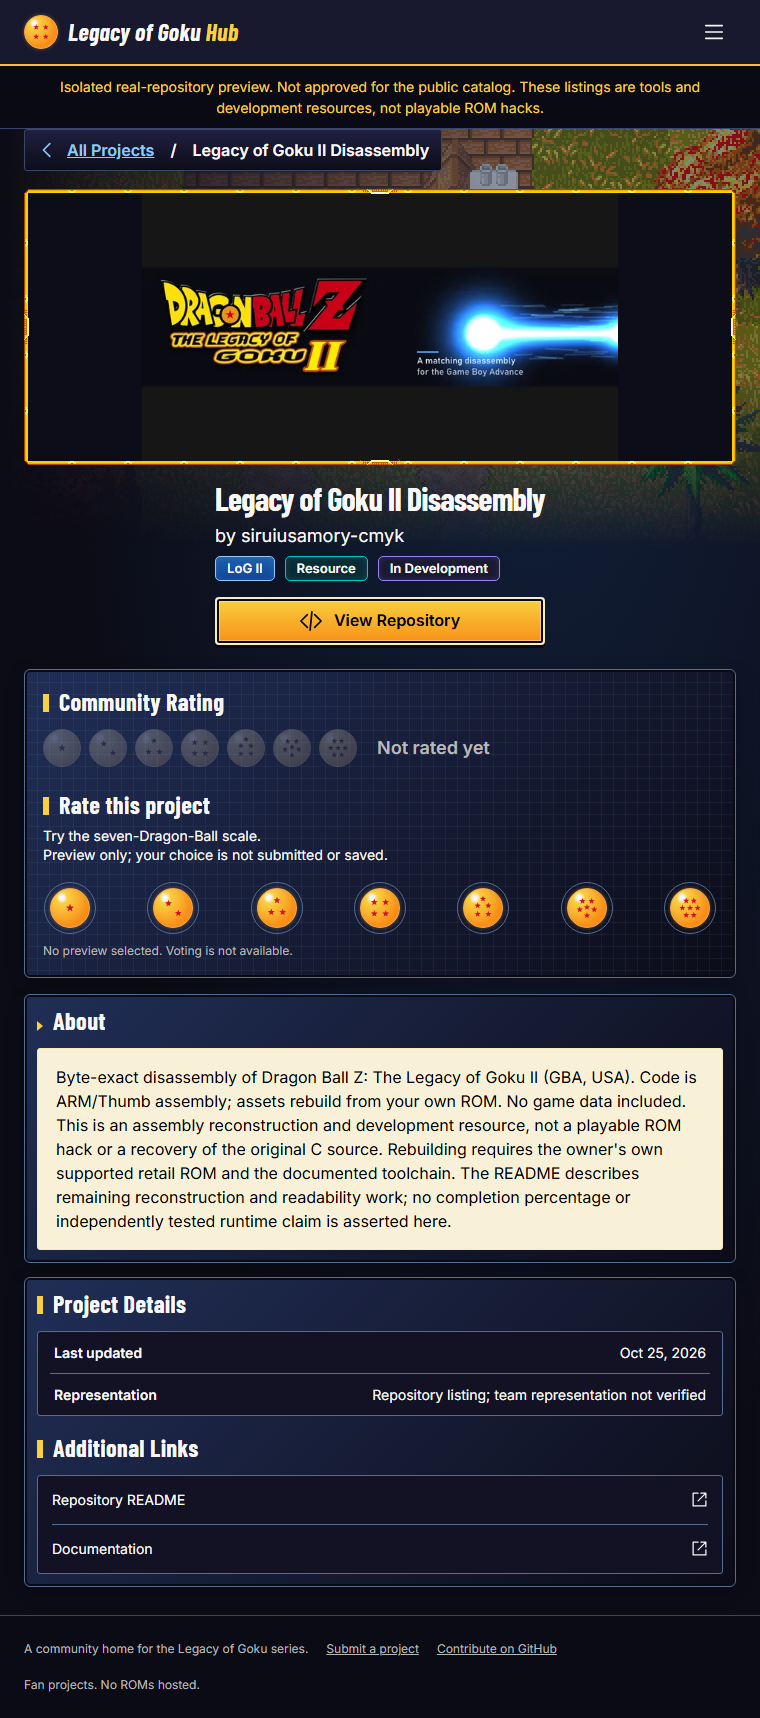
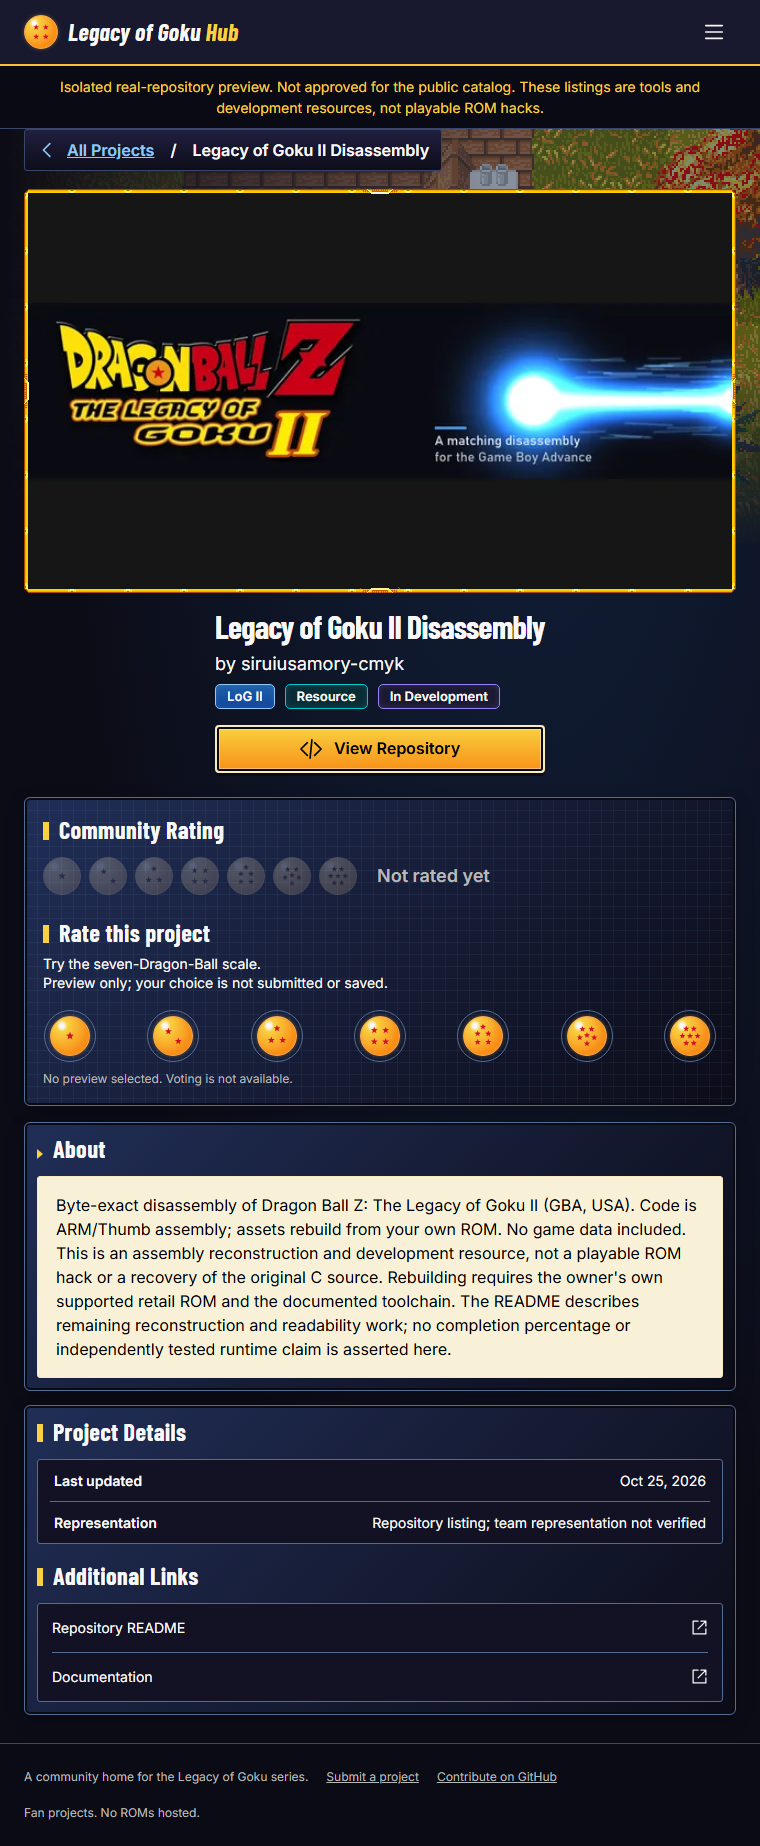
Fit detail artwork to its portrait frame without distortion

diff --git a/website/src/styles/identity.css b/website/src/styles/identity.css
@@ -117,8 +117,9 @@ body {
 .empty-directory {border: 1px solid var(--border); background: var(--panel-fill); border-radius: var(--frame-radius);}
 .project-artwork {position: relative; display: block; width: 100%; height: 100%; min-width: 0;}
 .project-artwork img {display: block; width: 100%; height: 100%;}
-.detail-art.project-artwork {height: 276px;}
-.detail-art.project-artwork img {object-fit: contain;}
+.detail-art.project-artwork {height: auto; aspect-ratio: auto;}
+.detail-art.project-artwork img {height: auto; object-fit: contain;}
+.detail-art .artwork-unavailable {aspect-ratio: 16/9;}
 .artwork-unavailable {height: 100%; display: flex; flex-direction: column; align-items: center; justify-content: center; gap: 8px; text-align: center; padding: 16px; background: var(--menu-fill); color: var(--muted); font-size: var(--text-small);}
 .artwork-unavailable>span {font-size: 24px; color: var(--gold);}
 @media(max-width:900px) {
@@ -147,7 +148,6 @@ body {
   .filter-controls .filter-chip,.sort-label select {min-height: 44px;}
   .directory-heading {gap: 10px;}
   .directory-heading h2 {padding-inline: 10px;}
-  .detail-art.project-artwork {height: auto; aspect-ratio: 16/9;}
   .detail-rating {padding: 18px 12px;}
   .panel {padding: 12px;}
   .description-box {padding: 12px;}

diff --git a/e2e-real/identity.pw.js b/e2e-real/identity.pw.js
@@ -83,6 +83,10 @@ test('portrait frames have transparent corner surfaces and one complete centered
   for(const width of [320,390,760,1448])for(const route of ['/','/projects/gh-1429374563/']){
     await page.setViewportSize({width,height:844});await page.goto(route);
     const frame=page.locator(route==='/'?'.spotlight-inner':'.detail-art');
+    if(route!=='/'){
+      const fit=await frame.evaluate(e=>{const f=e.getBoundingClientRect(),i=e.querySelector('img').getBoundingClientRect(),s=getComputedStyle(e);return {width:f.width-parseFloat(s.borderLeftWidth)-parseFloat(s.borderRightWidth)-i.width,height:f.height-parseFloat(s.borderTopWidth)-parseFloat(s.borderBottomWidth)-i.height,ratio:i.width/i.height};});
+      expect(Math.abs(fit.width)).toBeLessThan(.02);expect(Math.abs(fit.height)).toBeLessThan(.02);expect(fit.ratio).toBeCloseTo(16/9,3);
+    }
     if(route!=='/')for(const choice of await page.locator('.rating-choice').all()){
       const offset=await choice.evaluate(e=>{const r=e.getBoundingClientRect(),b=e.querySelector('.dragon-ball').getBoundingClientRect();return b.y+b.height/2-r.y-r.height/2;});
       expect(Math.abs(offset)).toBeLessThan(1);

diff --git a/docs/frontend/visual-identity/REFINEMENT.md b/docs/frontend/visual-identity/REFINEMENT.md
@@ -72,3 +72,7 @@ Additional per-game captures are in refinement-after: legacy-of-goku-{320,390,76
 The final rating polish centers each ball within its selection target and centers all seven desktop ball centers on the exact horizontal midpoint of the complete rating panel. The preview status stays in the text column so it cannot reserve an extra row beneath the scale. A browser geometry assertion measures every desktop ball center against the panel midpoint with less than 0.02 CSS pixel tolerance, and checks individual target centering at all four viewport widths. Source crop pixels were independently compared to the local supplied sheets and matched exactly; PNG palette optimization did not alter their colors.
 
 Focused Zeroshot follow-up 01a1df3b-d771-7a22-90f2-ed4f042611ab also returned technical PASS with no blocking defect. It independently compared all source-crop pixels, inspected the updated per-game screenshots, checked original portrait derivation and reran six targeted Node tests. The subsequent exact panel-center CSS correction passed the final 14 targeted browser checks; it did not trigger a third independent review.
+
+## Detail artwork fit follow-up
+
+The owner clarified that framed project artwork, not environmental scenery, should fit its border. Removed the fixed 276px frame height and mobile wrapper aspect constraint; the image now determines the frame height at its natural 16:9 catalog ratio. The image box exactly meets the inner border at 320/390/760/1448px, with no distortion or additional CSS letterboxing. Missing-image fallbacks retain a deliberate 16:9 footprint. Existing padding encoded within catalog cover images remains part of those images. Scene images, project data and rating centering are unchanged. Updated desktop/tablet/per-game and released-fixture captures reflect this change. Six real-preview plus nine affected fixture/browser checks pass, including accessibility, image failure and exact rating alignment; no further Zeroshot loop was run for this small CSS follow-up.

diff --git a/README.md b/README.md
@@ -170,3 +170,5 @@ The Astro implementation, honest empty state, stable project pages, responsive d
 Frontend CI uses the hosted runner's installed Chrome with sandboxing enabled; local Windows checks use project-local Chromium. Visual captures explicitly load and decode lazy images before inspecting them.
 
 [PR #24](https://github.com/siruiusamory-cmyk/legacy-of-goku-hub/pull/24) has passing hosted Node and browser checks. Owner review and deployment authorization remain pending.
+
+Detail artwork sizing follows the normalized image ratio, so the image meets the portrait frame without added CSS letterboxing.

diff --git a/CHANGELOG.md b/CHANGELOG.md
@@ -76,3 +76,5 @@
 - Make screenshot capture deterministic for offscreen lazy media in hosted Chrome; require successful decoding without altering production lazy loading.
 
 - Verify all 73 Node and 20 browser tests on hosted Linux with sandboxing enabled; retain normal PR approval and default-off deployment.
+
+- Detail artwork frames now follow the image dimensions instead of a fixed 276px height, preserving aspect ratio and corner transparency.
